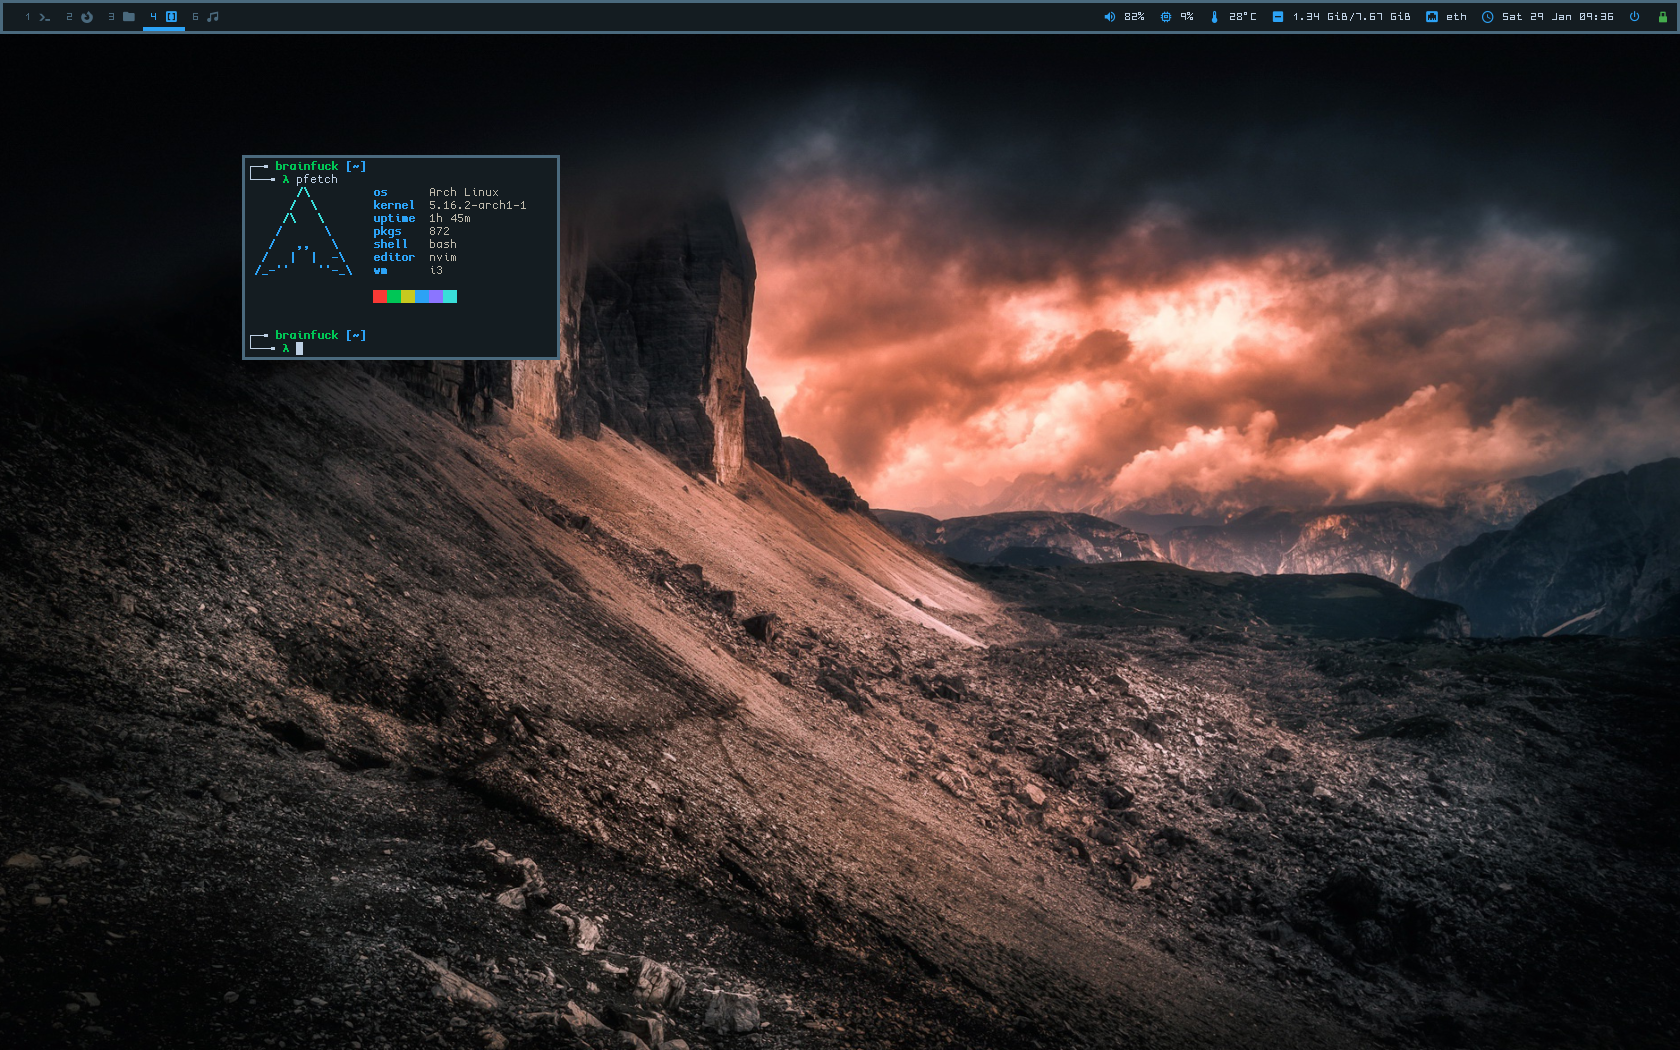
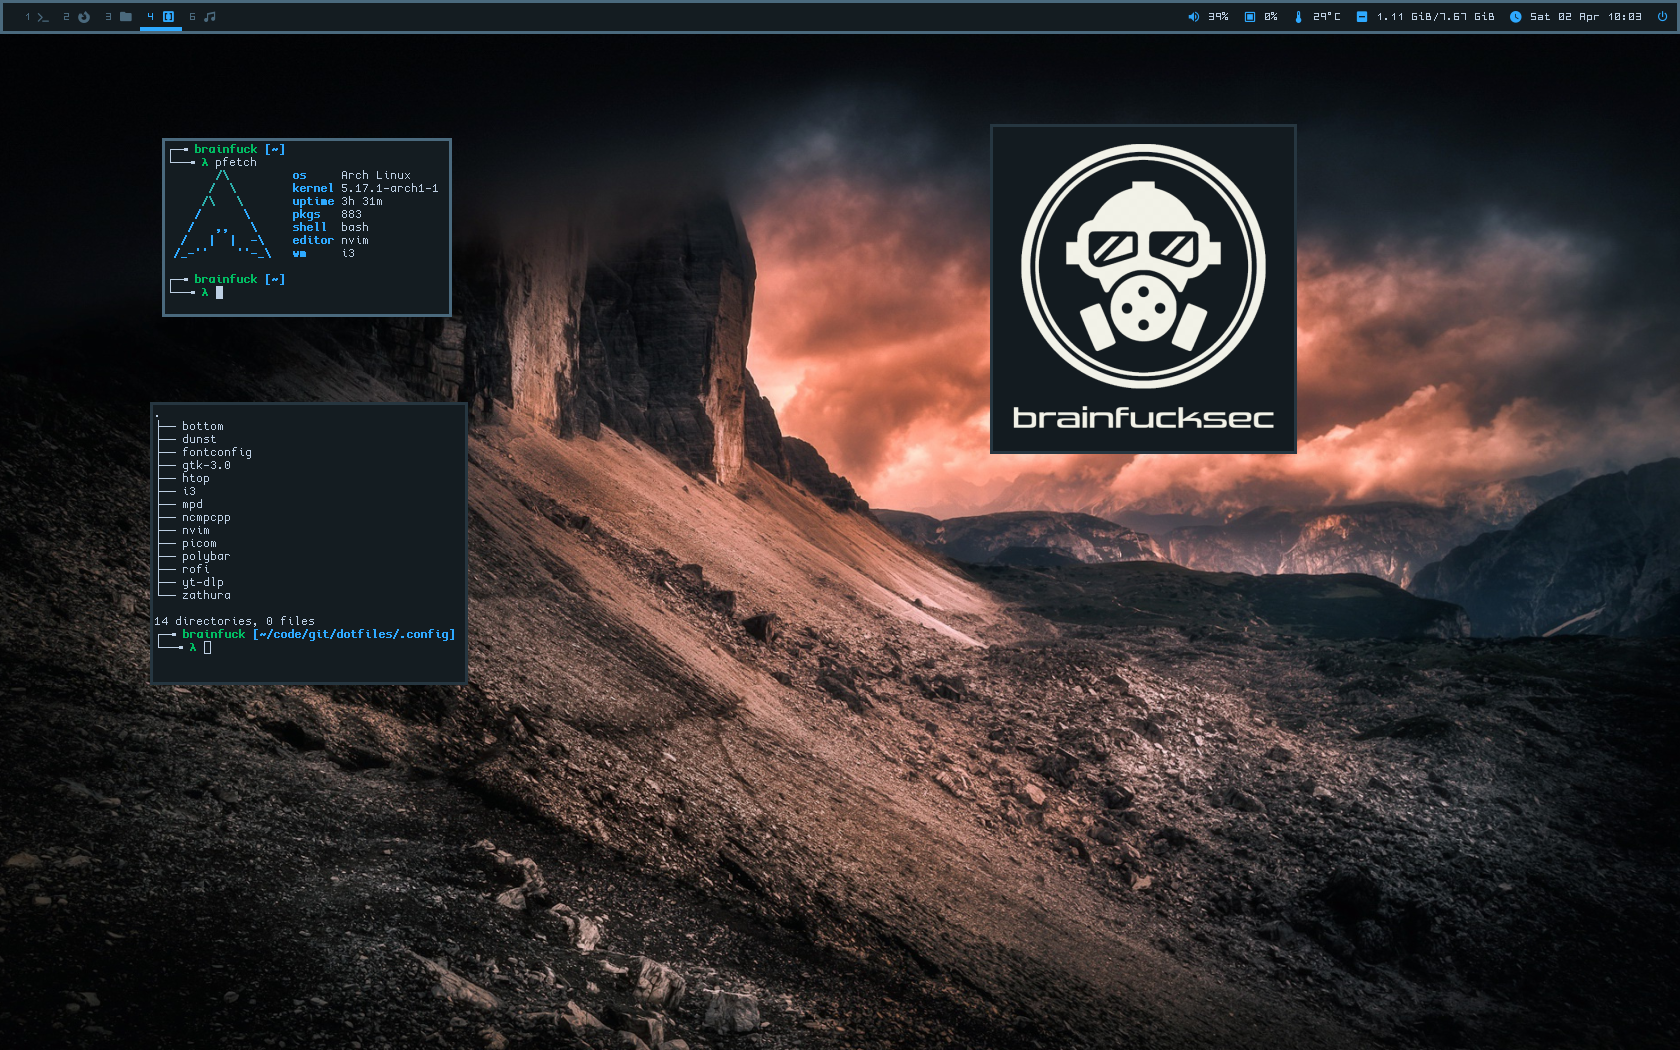
Update screeshots

diff --git a/README.md b/README.md
@@ -6,9 +6,9 @@
 
 ![.](img/2-dirty.png)
 
-![.](img/3-float.png)
+![.](img/3-zathura.png)
 
-![.](img/4-zathura.png)
+![.](img/4-neovim.png)
 
 ---
 
